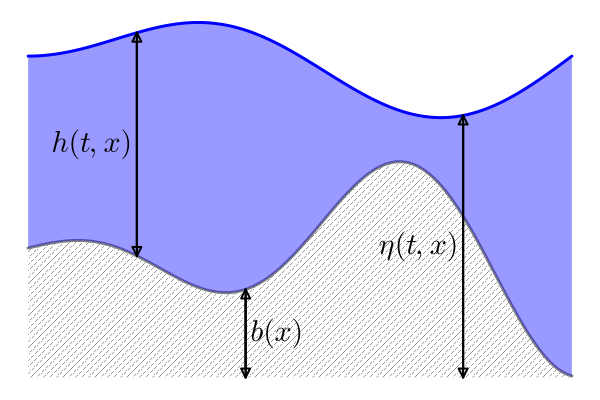
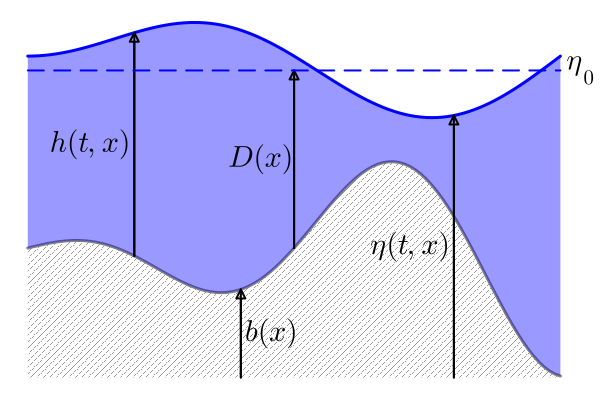
Add Development section to docs (#103)
* add development section to docs

also fix some small thing in the overview section

* set version to v0.3.2

* make bathymetry image smaller

Changed region(s): [[0.03, 0.06, 0.99, 0.96], [0.33, 0.72, 0.36, 0.75]]

diff --git a/docs/src/overview.md b/docs/src/overview.md
@@ -11,9 +11,9 @@ In this tutorial we describe how to numerically solve the BBM-BBM (Benjamin-Bona
 \end{aligned}
 ```
 
-Here, ``\eta = h + b`` describes the total water height, ``h`` the water height above the bottom topography (bathymetry), ``b = -D`` the bathymetry and ``v`` the velocity in horizontal direction. The gravitational acceleration is denoted as ``g``. A sketch of the water height and the bathymetry can be found below.
+Here, ``\eta = h + b`` describes the total water height, ``h`` the water height above the bottom topography (bathymetry), ``b = \eta_0 - D`` the bathymetry and ``v`` the velocity in horizontal direction. Here, ``\eta_0`` is a reference water height also called still water height. In the case of the BBM-BBM equations, ``\eta_0`` is usually taken to be 0. The gravitational acceleration is denoted as ``g``. A sketch of the water height and the bathymetry can be found below.
 
-![](bathymetry.png)
+![water height and bathymetry](bathymetry.png)
 
 In order to conduct a numerical simulation with DispersiveShallowWater.jl, we perform the following steps.
 
@@ -101,10 +101,11 @@ After running the simulation, the results can be visualized using [Plots.jl](htt
 using Plots
 
 plot(semi => sol)
-savefig("shoaling_solution.png")
+savefig("shoaling_solution.png") # hide
+nothing # hide
 ```
 
-![](shoaling_solution.png)
+![shoaling solution](shoaling_solution.png)
 
 By default, this will plot the bathymetry, but not the initial (analytical) solution. You can adjust this by passing the boolean values `plot_bathymetry` (if `true` always plot to first subplot) and `plot_initial`. You can also provide a `conversion` function that converts the solution. A conversion function should take the values of the primitive variables `q` at one node, and the `equations` as input and should return an `SVector` of any length as output. For a user defined conversion function, there should also exist a function `varnames(conversion, equations)` that returns a `Tuple` of the variable names used for labelling. The conversion function can, e.g., be [`prim2cons`](@ref) or [`waterheight_total`](@ref) if one only wants to plot the total waterheight. The resulting plot will have one subplot for each of the returned variables of the conversion variable. By default, the conversion function is just [`prim2prim`](@ref), i.e. the identity.
 
@@ -112,10 +113,13 @@ Plotting an animation over time can, e.g., be done by the following command, whi
 
 ```@example overview
 anim = @animate for step in 1:length(sol.u)
-    plot(semi => sol, plot_initial = true, conversion = waterheight_total, step = step, xlim = (-50, 20), ylims = [(-0.8, 0.1)])
+    plot(semi => sol, plot_initial = true, conversion = waterheight_total, step = step, xlim = (-50, 20), ylims = (-0.8, 0.1))
 end
 gif(anim, "shoaling_solution.gif", fps = 25)
+nothing # hide
 ```
+
+![shoaling solution](shoaling_solution.gif)
 
 It is also possible to plot the solution variables at a fixed spatial point over time by calling `plot(semi => sol, x)` for some `x`-value, see [plot_examples.jl](https://github.com/JoshuaLampert/2023-master-thesis/blob/main/code/plot_examples.jl) from
 the reproducibility repository of the master thesis of Joshua Lampert for some examples.
@@ -124,12 +128,13 @@ Often, it is interesting to have a look at how the quantities that are recorded 
 
 ```@example overview
 plot(analysis_callback)
-savefig("analysis_callback.png")
+savefig("analysis_callback.png") # hide
+nothing # hide
 ```
 
 This creates the following figure:
 
-![](analysis_callback.png)
+![analysis callback](analysis_callback.png)
 
 You can see that the linear invariants ``\int_\Omega\eta\textrm{d}x`` and ``\int_\Omega v\textrm{d}x`` are indeed conserved exactly. The entropy, however, starts growing at around ``t = 17``  and rises up to approximately ``5e-5``. This is because of the fact that, during the time integration, a nonlinear invariant is not necessarily conserved, even if the semidiscretization conserves the quantity exactly. How to obtain a fully-discrete structure-preserving numerical scheme is explained in the following section.
 
@@ -154,11 +159,12 @@ When you use both, an `AnalysisCallback` and a `RelaxationCallback`, note that t
 Plotting the `analysis_callback` again, we can see that now also the `entropy` is conserved up to machine precision.
 
 ```@example overview
-plot(analysis_callback)
-savefig("analysis_callback_relaxation.png")
+plot(analysis_callback, ylims = (-5e-16, 5e-16))
+savefig("analysis_callback_relaxation.png") # hide
+nothing # hide
 ```
 
-![](analysis_callback_relaxation.png)
+![analysis callback relaxation](analysis_callback_relaxation.png)
 
 
 ## [Customize solver](@id customize_solver)
@@ -214,10 +220,13 @@ callbacks = CallbackSet(relaxation_callback, analysis_callback)
 sol = solve(ode, Tsit5(), abstol = 1e-7, reltol = 1e-7,
             save_everystep = false, callback = callbacks, saveat = saveat)
 anim = @animate for step in 1:length(sol.u)
-    plot(semi => sol, plot_initial = true, conversion = waterheight_total, step = step, xlim = (-50, 20), ylims = [(-0.8, 0.1)])
+    plot(semi => sol, plot_initial = true, conversion = waterheight_total, step = step, xlim = (-50, 20), ylims = (-0.8, 0.1))
 end
 gif(anim, "shoaling_solution_dg.gif", fps = 25)
+nothing # hide
 ```
+
+![shoaling solution DG](shoaling_solution_dg.gif)
 
 For more details see also the [documentation of SummationByPartsOperators.jl](https://ranocha.de/SummationByPartsOperators.jl/stable/)
 

diff --git a/docs/src/development.md b/docs/src/development.md
@@ -1,0 +1,50 @@
+# Development
+
+If you have any suggestions or ideas for improvements or new features, we are pleased to accept and discuss
+[issues](https://github.com/JoshuaLampert/DispersiveShallowWater.jl/issues) or if you are willing to contribute,
+feel free to [open a pull request](https://github.com/JoshuaLampert/DispersiveShallowWater.jl/pulls), even if it
+is only fixing a typo or improving the docs.
+
+## Changing DispersiveShallowWater.jl and running it locally
+
+If you plan to edit DispersiveShallowWater.jl, you first need to clone a local copy of the repository, which can
+be done by using `git`. It is recommended that you create a project, e.g. call it `run`, inside the repository,
+where you can add packages that you use during executing and testing DispersiveShallowWater.jl, but are not needed
+by DispersiveShallowWater.jl. This way you can keep the Project.toml of the main repository clean. To do so, you
+can execute the following lines in a terminal:
+
+```sh
+git clone https://github.com/JoshuaLampert/DispersiveShallowWater.jl.git
+cd DispersiveShallowWater
+mkdir run
+cd run
+julia --project=. -e 'using Pkg; Pkg.develop(PackageSpec(path=".."))' # Install local DispersiveShallowWater.jl clone
+julia --project=. -e 'using Pkg; Pkg.add(["OrdinaryDiffEq", "Plots", "SummationByPartsOperators"])' # Install additional packages
+```
+
+If you use other packages for executing DispersiveShallowWater.jl, you can add them to the project in the `run`
+directory in an analogous way as above. To use the Julia project within `run`, be sure to start the Julia REPL
+by
+
+```sh
+julia --project=.
+```
+
+if already inside the the `run` directory or `julia --project=run` if in the main directory of the repo.
+
+## Preview of the documentation
+
+If you want to build the documentation locally, you can run
+
+```sh
+julia --project=docs -e 'using Pkg; Pkg.develop(PackageSpec(path=pwd())); Pkg.instantiate()'
+```
+
+once from the DispersiveShallowWater.jl main directory to tell [Documenter.jl](https://documenter.juliadocs.org/stable/man/guide/)
+to build the documentation of your local clone. To build the documentation, run
+
+```sh
+julia --project=docs --color=yes docs/make.jl
+```
+
+The resulting `.html` files can then be found in `docs/build/` and you can look at them by opening them in a browser.

diff --git a/docs/src/license.md b/docs/src/license.md
@@ -2,7 +2,7 @@
 
 MIT License
 
-Copyright (c) 2023-present Joshua Lampert <joshua.lampert@uni-hamburg.de>
+Copyright (c) 2023-present Joshua Lampert <joshua.lampert@uni-hamburg.de> and contributors
 
 Permission is hereby granted, free of charge, to any person obtaining a copy
 of this software and associated documentation files (the "Software"), to deal
